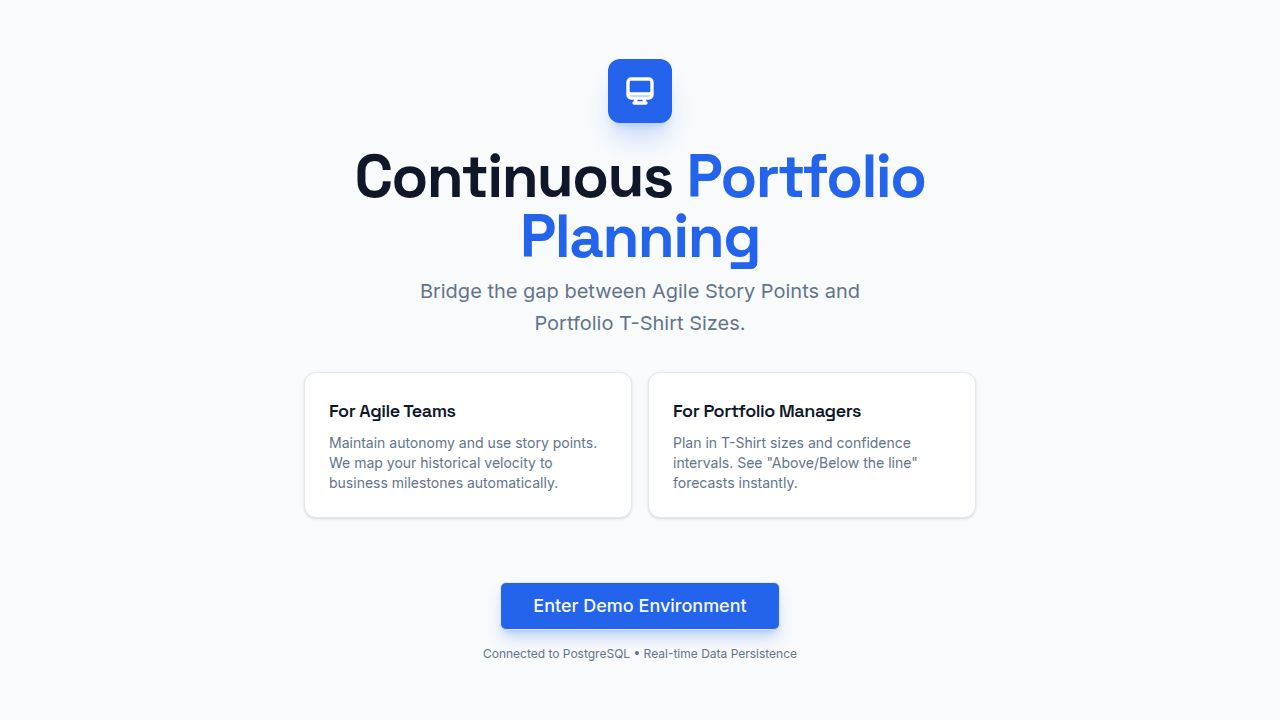
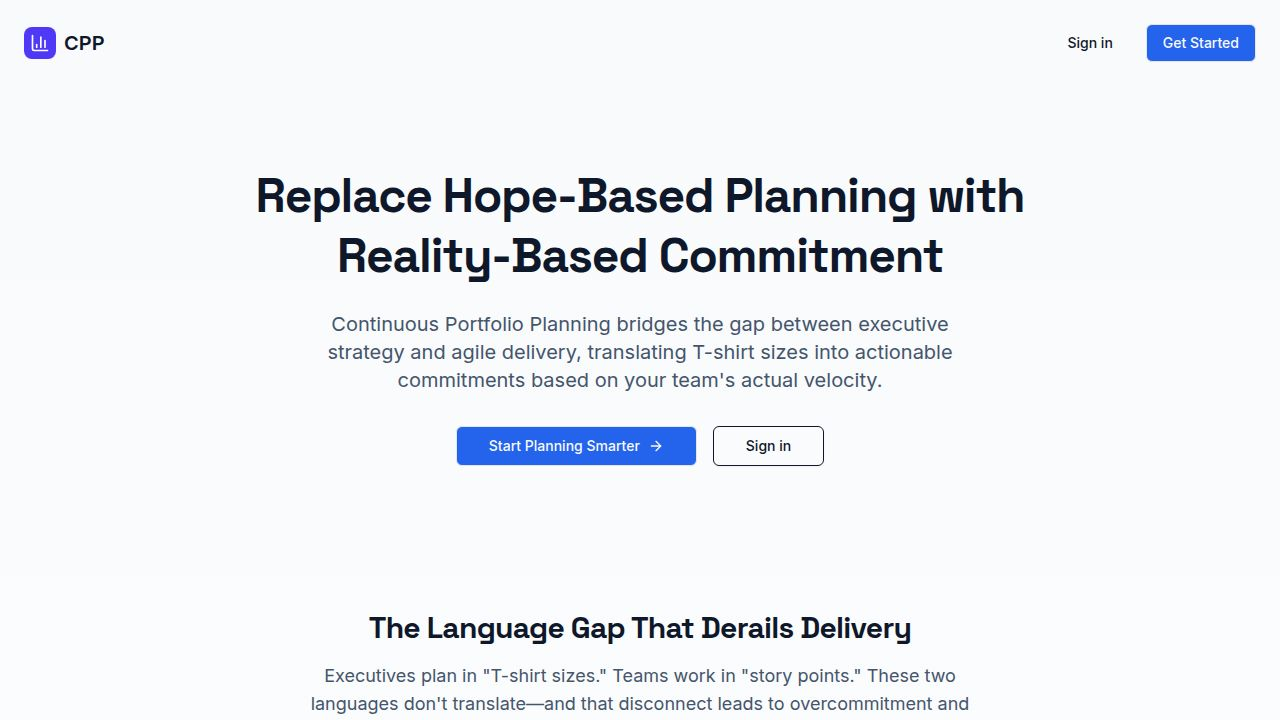
Add a branded landing page for unauthenticated users
Introduce a new landing page for the application, updating routing in App.tsx to display it at the root URL for unauthenticated users and redirecting authenticated users to the dashboard.

Replit-Commit-Author: Agent
Replit-Commit-Session-Id: a539fe60-f5dc-498e-bbf0-02c1042dcb2a
Replit-Commit-Checkpoint-Type: full_checkpoint
Replit-Commit-Event-Id: 48776209-abd0-4fc0-944d-835bd74c4478
Replit-Commit-Screenshot-Url: https://storage.googleapis.com/screenshot-production-us-central1/4c71c063-0d14-4bc3-87b3-e9f976cfff1a/a539fe60-f5dc-498e-bbf0-02c1042dcb2a/jkawTkR
Replit-Helium-Checkpoint-Created: true

diff --git a/client/src/pages/landing.tsx b/client/src/pages/landing.tsx
@@ -1,0 +1,207 @@
+import { Link } from "wouter";
+import { Button } from "@/components/ui/button";
+import { Card, CardContent } from "@/components/ui/card";
+import { ArrowRight, BarChart3, Languages, Target, TrendingUp } from "lucide-react";
+
+export default function Landing() {
+  return (
+    <div className="min-h-screen bg-gradient-to-b from-slate-50 to-white">
+      <header className="container mx-auto px-6 py-6">
+        <nav className="flex items-center justify-between">
+          <div className="flex items-center gap-2">
+            <div className="h-8 w-8 rounded-lg bg-indigo-600 flex items-center justify-center">
+              <BarChart3 className="h-5 w-5 text-white" />
+            </div>
+            <span className="text-xl font-semibold text-slate-900" data-testid="text-brand-name">CPP</span>
+          </div>
+          <div className="flex items-center gap-4">
+            <Link href="/login">
+              <Button variant="ghost" data-testid="link-header-login">Sign in</Button>
+            </Link>
+            <Link href="/signup">
+              <Button data-testid="link-header-signup">Get Started</Button>
+            </Link>
+          </div>
+        </nav>
+      </header>
+
+      <main>
+        <section className="container mx-auto px-6 py-20 text-center">
+          <div className="max-w-4xl mx-auto">
+            <h1 className="text-5xl font-bold text-slate-900 leading-tight mb-6" data-testid="text-hero-title">
+              Replace Hope-Based Planning with Reality-Based Commitment
+            </h1>
+            <p className="text-xl text-slate-600 mb-8 max-w-2xl mx-auto" data-testid="text-hero-subtitle">
+              Continuous Portfolio Planning bridges the gap between executive strategy and agile delivery, 
+              translating T-shirt sizes into actionable commitments based on your team's actual velocity.
+            </p>
+            <div className="flex items-center justify-center gap-4">
+              <Link href="/signup">
+                <Button size="lg" className="gap-2" data-testid="button-hero-cta">
+                  Start Planning Smarter
+                  <ArrowRight className="h-4 w-4" />
+                </Button>
+              </Link>
+              <Link href="/login">
+                <Button size="lg" variant="outline" data-testid="button-hero-login">
+                  Sign in
+                </Button>
+              </Link>
+            </div>
+          </div>
+        </section>
+
+        <section className="container mx-auto px-6 py-16">
+          <div className="max-w-5xl mx-auto">
+            <div className="text-center mb-12">
+              <h2 className="text-3xl font-bold text-slate-900 mb-4" data-testid="text-problem-title">
+                The Language Gap That Derails Delivery
+              </h2>
+              <p className="text-lg text-slate-600 max-w-2xl mx-auto">
+                Executives plan in "T-shirt sizes." Teams work in "story points." 
+                These two languages don't translate—and that disconnect leads to overcommitment 
+                and missed milestones.
+              </p>
+            </div>
+
+            <div className="grid md:grid-cols-2 gap-8 mb-16">
+              <Card className="border-red-100 bg-red-50/50">
+                <CardContent className="pt-6">
+                  <h3 className="text-lg font-semibold text-red-900 mb-3">Hope-Based Planning</h3>
+                  <ul className="space-y-2 text-red-800">
+                    <li className="flex items-start gap-2">
+                      <span className="text-red-400 mt-1">×</span>
+                      Vague estimates disconnected from reality
+                    </li>
+                    <li className="flex items-start gap-2">
+                      <span className="text-red-400 mt-1">×</span>
+                      Plans made without historical data
+                    </li>
+                    <li className="flex items-start gap-2">
+                      <span className="text-red-400 mt-1">×</span>
+                      Chronic overcommitment and burnout
+                    </li>
+                    <li className="flex items-start gap-2">
+                      <span className="text-red-400 mt-1">×</span>
+                      Missed milestones and eroded trust
+                    </li>
+                  </ul>
+                </CardContent>
+              </Card>
+
+              <Card className="border-green-100 bg-green-50/50">
+                <CardContent className="pt-6">
+                  <h3 className="text-lg font-semibold text-green-900 mb-3">Reality-Based Commitment</h3>
+                  <ul className="space-y-2 text-green-800">
+                    <li className="flex items-start gap-2">
+                      <span className="text-green-500 mt-1">✓</span>
+                      T-shirt sizes mapped to actual story points
+                    </li>
+                    <li className="flex items-start gap-2">
+                      <span className="text-green-500 mt-1">✓</span>
+                      Plans grounded in team velocity data
+                    </li>
+                    <li className="flex items-start gap-2">
+                      <span className="text-green-500 mt-1">✓</span>
+                      Sustainable commitments teams can deliver
+                    </li>
+                    <li className="flex items-start gap-2">
+                      <span className="text-green-500 mt-1">✓</span>
+                      Predictable outcomes that build confidence
+                    </li>
+                  </ul>
+                </CardContent>
+              </Card>
+            </div>
+          </div>
+        </section>
+
+        <section className="bg-slate-50 py-16">
+          <div className="container mx-auto px-6">
+            <div className="max-w-5xl mx-auto">
+              <div className="text-center mb-12">
+                <h2 className="text-3xl font-bold text-slate-900 mb-4" data-testid="text-features-title">
+                  How CPP Bridges the Gap
+                </h2>
+                <p className="text-lg text-slate-600">
+                  The Sage of portfolio planning—providing clarity where there was chaos.
+                </p>
+              </div>
+
+              <div className="grid md:grid-cols-3 gap-8">
+                <Card>
+                  <CardContent className="pt-6 text-center">
+                    <div className="h-12 w-12 rounded-lg bg-indigo-100 flex items-center justify-center mx-auto mb-4">
+                      <Languages className="h-6 w-6 text-indigo-600" />
+                    </div>
+                    <h3 className="text-lg font-semibold text-slate-900 mb-2">Translate</h3>
+                    <p className="text-slate-600">
+                      Convert executive T-shirt sizes into story points your teams actually use
+                    </p>
+                  </CardContent>
+                </Card>
+
+                <Card>
+                  <CardContent className="pt-6 text-center">
+                    <div className="h-12 w-12 rounded-lg bg-indigo-100 flex items-center justify-center mx-auto mb-4">
+                      <TrendingUp className="h-6 w-6 text-indigo-600" />
+                    </div>
+                    <h3 className="text-lg font-semibold text-slate-900 mb-2">Forecast</h3>
+                    <p className="text-slate-600">
+                      Plan across multiple increments with automatic epic rollover and capacity visualization
+                    </p>
+                  </CardContent>
+                </Card>
+
+                <Card>
+                  <CardContent className="pt-6 text-center">
+                    <div className="h-12 w-12 rounded-lg bg-indigo-100 flex items-center justify-center mx-auto mb-4">
+                      <Target className="h-6 w-6 text-indigo-600" />
+                    </div>
+                    <h3 className="text-lg font-semibold text-slate-900 mb-2">Commit</h3>
+                    <p className="text-slate-600">
+                      Make realistic promises based on historical velocity, not wishful thinking
+                    </p>
+                  </CardContent>
+                </Card>
+              </div>
+            </div>
+          </div>
+        </section>
+
+        <section className="container mx-auto px-6 py-20">
+          <div className="max-w-3xl mx-auto text-center">
+            <h2 className="text-3xl font-bold text-slate-900 mb-4" data-testid="text-cta-title">
+              Ready to Plan with Clarity?
+            </h2>
+            <p className="text-lg text-slate-600 mb-8">
+              Join teams who've replaced guesswork with data-driven portfolio planning.
+            </p>
+            <Link href="/signup">
+              <Button size="lg" className="gap-2" data-testid="button-footer-cta">
+                Get Started Free
+                <ArrowRight className="h-4 w-4" />
+              </Button>
+            </Link>
+          </div>
+        </section>
+      </main>
+
+      <footer className="border-t border-slate-200 py-8">
+        <div className="container mx-auto px-6">
+          <div className="flex items-center justify-between">
+            <div className="flex items-center gap-2">
+              <div className="h-6 w-6 rounded bg-indigo-600 flex items-center justify-center">
+                <BarChart3 className="h-4 w-4 text-white" />
+              </div>
+              <span className="text-sm font-medium text-slate-700">Continuous Portfolio Planning</span>
+            </div>
+            <p className="text-sm text-slate-500">
+              Bridging strategy and agile delivery
+            </p>
+          </div>
+        </div>
+      </footer>
+    </div>
+  );
+}

diff --git a/client/src/App.tsx b/client/src/App.tsx
@@ -8,49 +8,50 @@ import NotFound from "@/pages/not-found";
 import Dashboard from "@/pages/dashboard";
 import Login from "@/pages/login";
 import Signup from "@/pages/signup";
+import Landing from "@/pages/landing";
+
+function LoadingSpinner() {
+  return (
+    <div className="min-h-screen flex items-center justify-center">
+      <div className="animate-spin rounded-full h-8 w-8 border-b-2 border-gray-900" />
+    </div>
+  );
+}
 
 function ProtectedRoute({ component: Component }: { component: React.ComponentType }) {
   const { user, isLoading } = useAuth();
 
-  if (isLoading) {
-    return (
-      <div className="min-h-screen flex items-center justify-center">
-        <div className="animate-spin rounded-full h-8 w-8 border-b-2 border-gray-900" />
-      </div>
-    );
-  }
-
-  if (!user) {
-    return <Redirect to="/login" />;
-  }
+  if (isLoading) return <LoadingSpinner />;
+  if (!user) return <Redirect to="/login" />;
 
   return <Component />;
 }
 
-function PublicRoute({ component: Component }: { component: React.ComponentType }) {
+function PublicOnlyRoute({ component: Component }: { component: React.ComponentType }) {
   const { user, isLoading } = useAuth();
 
-  if (isLoading) {
-    return (
-      <div className="min-h-screen flex items-center justify-center">
-        <div className="animate-spin rounded-full h-8 w-8 border-b-2 border-gray-900" />
-      </div>
-    );
-  }
-
-  if (user) {
-    return <Redirect to="/" />;
-  }
+  if (isLoading) return <LoadingSpinner />;
+  if (user) return <Redirect to="/dashboard" />;
 
   return <Component />;
+}
+
+function HomeRoute() {
+  const { user, isLoading } = useAuth();
+
+  if (isLoading) return <LoadingSpinner />;
+  if (user) return <Redirect to="/dashboard" />;
+
+  return <Landing />;
 }
 
 function Router() {
   return (
     <Switch>
-      <Route path="/login">{() => <PublicRoute component={Login} />}</Route>
-      <Route path="/signup">{() => <PublicRoute component={Signup} />}</Route>
-      <Route path="/">{() => <ProtectedRoute component={Dashboard} />}</Route>
+      <Route path="/" component={HomeRoute} />
+      <Route path="/login">{() => <PublicOnlyRoute component={Login} />}</Route>
+      <Route path="/signup">{() => <PublicOnlyRoute component={Signup} />}</Route>
+      <Route path="/dashboard">{() => <ProtectedRoute component={Dashboard} />}</Route>
       <Route component={NotFound} />
     </Switch>
   );
